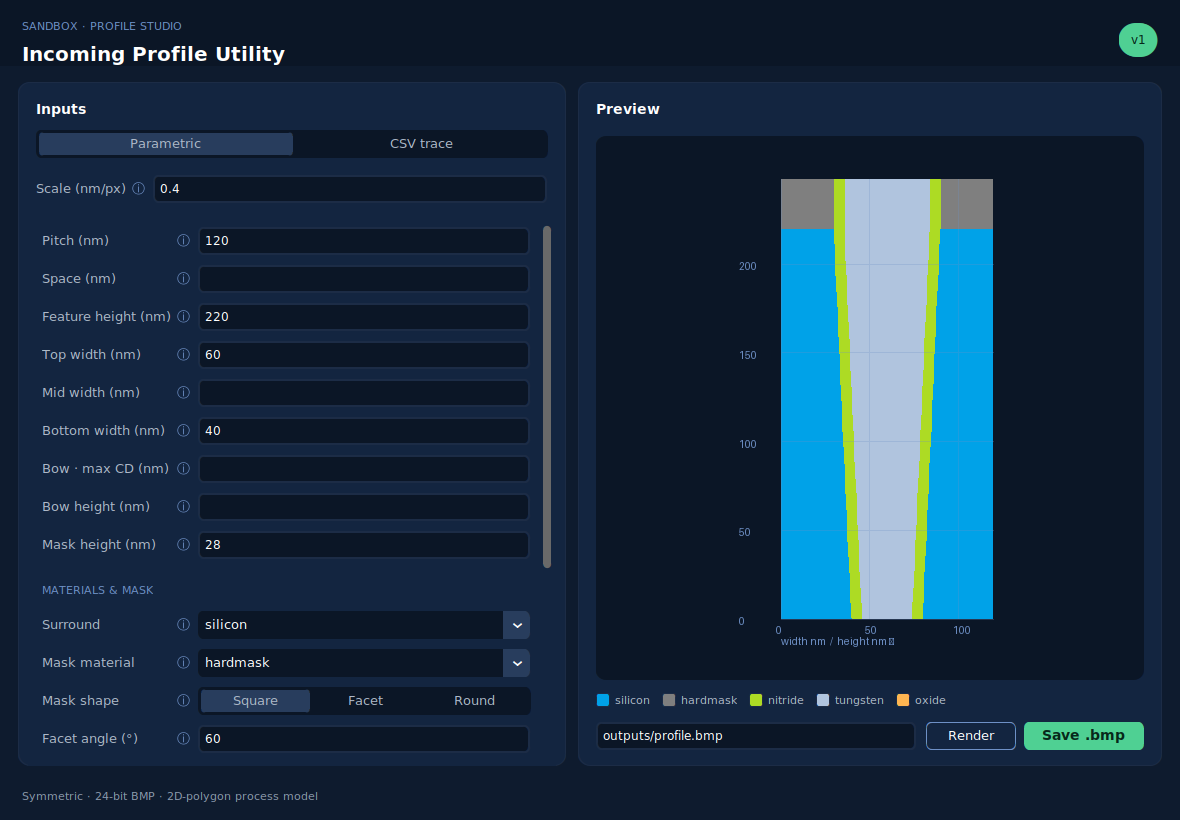
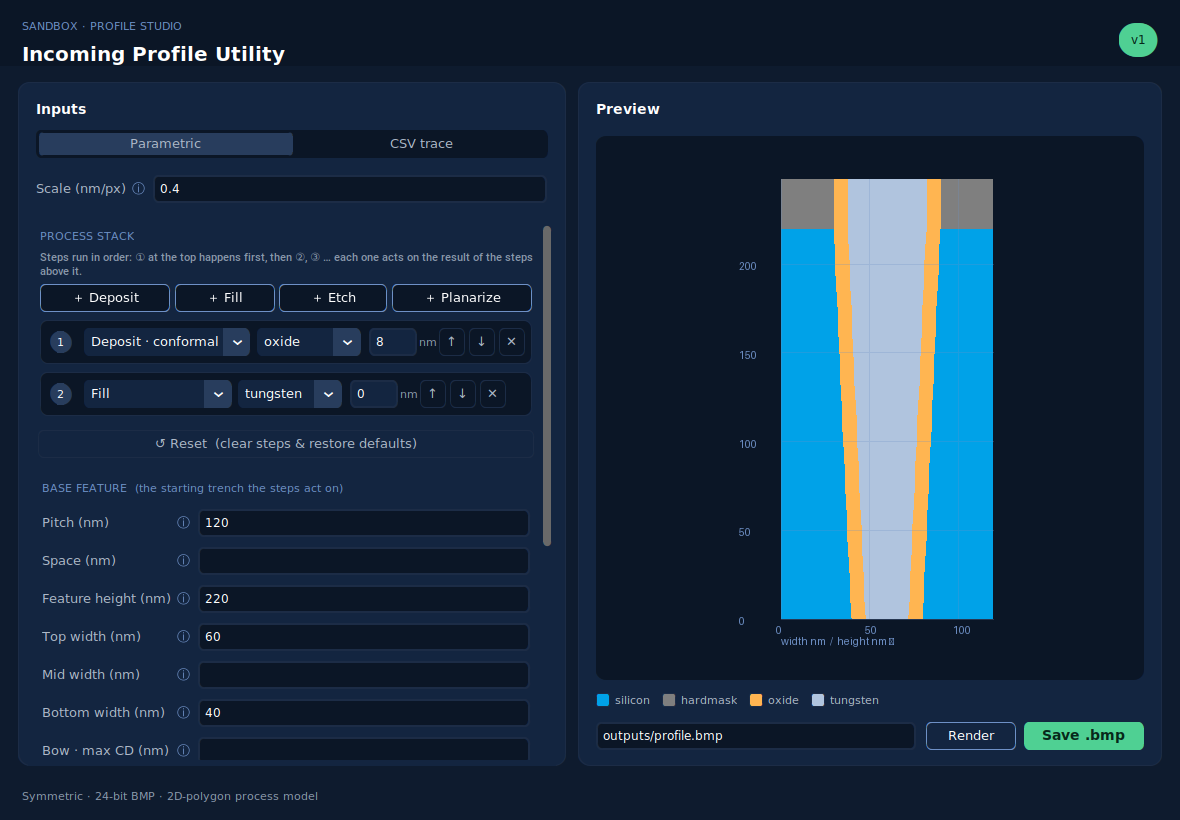
GUI: process stack first, per-type add buttons, reset, clearer ordering
- Reorder parametric inputs: PROCESS STACK on top, then BASE FEATURE, then MATERIALS & MASK.
- Replace single Add button with +Deposit / +Fill / +Etch / +Planarize so all op
  types are visibly available (not hidden in a row dropdown).
- Reword step-order help: numbered steps run top(first) -> bottom(last), each on the
  result above it. Empty-state hint when no steps.
- Add Reset (clear steps + restore default base/mask/scale).
- Etch/Planarize rows disable the material menu (not used by those ops).
- Start with an empty stack so a profile is built from scratch.

diff --git a/src/incoming_profile_utility/gui.py b/src/incoming_profile_utility/gui.py
@@ -73,14 +73,16 @@ class Tooltip:
 
 
 class OpRow:
+    NEEDS_MAT = ("Deposit · conformal", "Deposit · planar", "Fill")
+
     def __init__(self, app, op_label, material, num):
         self.app=app
         self.frame=ctk.CTkFrame(app.op_container, fg_color=NAVY_900, corner_radius=8, border_width=1, border_color=NAVY_700)
         self.badge=ctk.CTkFrame(self.frame, fg_color=BLUE, corner_radius=999, width=22, height=22)
         self.badge.pack(side="left", padx=(10,8), pady=8); self.badge.pack_propagate(False)
         self.badge_lbl=ctk.CTkLabel(self.badge, text="1", font=app.eb, text_color=ON); self.badge_lbl.pack(expand=True)
-        self.optype=ctk.CTkOptionMenu(self.frame, values=OP_LABELS, width=150, font=app.uf, fg_color=NAVY_800,
-                     button_color=BLUE, button_hover_color=BLUE_L, text_color=ON, command=lambda _v: app._schedule_render())
+        self.optype=ctk.CTkOptionMenu(self.frame, values=OP_LABELS, width=148, font=app.uf, fg_color=NAVY_800,
+                     button_color=BLUE, button_hover_color=BLUE_L, text_color=ON, command=self._on_type)
         self.optype.set(op_label); self.optype.pack(side="left", padx=4, pady=8)
         self.mat=ctk.CTkOptionMenu(self.frame, values=app.palette.names(), width=104, font=app.uf, fg_color=NAVY_800,
                      button_color=BLUE, button_hover_color=BLUE_L, text_color=ON, command=lambda _v: app._schedule_render())
@@ -91,6 +93,16 @@ class OpRow:
         for sym,cmd in (("↑",lambda:app._move_op(self,-1)),("↓",lambda:app._move_op(self,1)),("✕",lambda:app._remove_op(self))):
             ctk.CTkButton(self.frame, text=sym, width=26, font=app.uf, fg_color="transparent", border_width=1,
                           border_color=NAVY_700, text_color=SOFT, hover_color=NAVY_700, command=cmd).pack(side="left", padx=2)
+        self._sync()
+
+    def _on_type(self, _v):
+        self._sync(); self.app._schedule_render()
+
+    def _sync(self):
+        if self.optype.get() in self.NEEDS_MAT:
+            self.mat.configure(state="normal")
+        else:
+            self.mat.configure(state="disabled")   # material not used by etch / planarize
 
     def to_op(self):
         lbl=self.optype.get(); mat=self.mat.get()
@@ -118,7 +130,6 @@ class ProfileStudio(ctk.CTk):
         self.grid_columnconfigure(0,weight=1); self.grid_rowconfigure(1,weight=1)
         self._header(); self._body(); self._footer()
         self._set_mode("Parametric")
-        self._add_op("Deposit · conformal","oxide",8); self._add_op("Deposit · conformal","nitride",6)
         self.after(160, self.render_preview)
 
     def _row(self,parent,r,label,info,widget):
@@ -154,33 +165,48 @@ class ProfileStudio(ctk.CTk):
              selected_color=BLUE,selected_hover_color=BLUE_L,unselected_color=NAVY_900,text_color=SOFT)
         seg.set("Parametric"); seg.pack(fill="x",padx=18,pady=(0,10))
 
-        # ---- parametric page ----
-        self.param_page=ctk.CTkScrollableFrame(card,fg_color="transparent",height=520); self.param_page.grid_columnconfigure(2,weight=1)
-        self.entries={}
-        for i,(k,label,default,info) in enumerate(FIELDS):
-            e=ctk.CTkEntry(self.param_page,font=self.mono,fg_color=NAVY_900,border_color=NAVY_700,text_color=ON,width=120)
-            e.insert(0,default); e.bind("<KeyRelease>",self._schedule_render); self._row(self.param_page,i,label,info,e); self.entries[k]=e
-        r=len(FIELDS)
-        ctk.CTkLabel(self.param_page,text="MATERIALS & MASK",font=self.eb,text_color=BLUE_L).grid(row=r,column=0,columnspan=3,sticky="w",padx=8,pady=(12,2))
-        self.opt={}
-        self.opt["surround_material"]=self._mat_menu(self.param_page,"silicon"); self._row(self.param_page,r+1,"Surround","Bulk material the trench is carved into.",self.opt["surround_material"])
-        self.opt["mask_material"]=self._mat_menu(self.param_page,"hardmask"); self._row(self.param_page,r+2,"Mask material","Material of the mask on top.",self.opt["mask_material"])
-        self.mask_shape=ctk.CTkSegmentedButton(self.param_page,values=["Square","Facet","Round"],command=lambda _v:self.render_preview(),font=self.uf,
-                        fg_color=NAVY_900,selected_color=BLUE,selected_hover_color=BLUE_L,unselected_color=NAVY_900,text_color=SOFT)
-        self.mask_shape.set("Square"); self._row(self.param_page,r+3,"Mask shape","Mask corner style (top corners, symmetric).",self.mask_shape)
-        self.entries["mask_facet_angle"]=ctk.CTkEntry(self.param_page,font=self.mono,fg_color=NAVY_900,border_color=NAVY_700,text_color=ON,width=120)
-        self.entries["mask_facet_angle"].insert(0,"60"); self.entries["mask_facet_angle"].bind("<KeyRelease>",self._schedule_render)
-        self._row(self.param_page,r+4,"Facet angle (°)","Facet sidewall angle from horizontal; 90 = square.",self.entries["mask_facet_angle"])
-        self.entries["mask_radius"]=ctk.CTkEntry(self.param_page,font=self.mono,fg_color=NAVY_900,border_color=NAVY_700,text_color=ON,width=120)
-        self.entries["mask_radius"].insert(0,"12"); self.entries["mask_radius"].bind("<KeyRelease>",self._schedule_render)
-        self._row(self.param_page,r+5,"Round radius (nm)","Corner radius when Mask shape = Round.",self.entries["mask_radius"])
+        # ---- parametric page (sections packed in order; process stack FIRST) ----
+        self.param_page=ctk.CTkScrollableFrame(card,fg_color="transparent",height=520)
+        self.entries={}; self.opt={}
 
-        ctk.CTkLabel(self.param_page,text="PROCESS STACK   (top → bottom = first → last)",font=self.eb,text_color=BLUE_L).grid(row=r+6,column=0,columnspan=3,sticky="w",padx=8,pady=(12,2))
-        self.op_container=ctk.CTkFrame(self.param_page,fg_color="transparent"); self.op_container.grid(row=r+7,column=0,columnspan=3,sticky="ew",padx=2)
-        ctk.CTkButton(self.param_page,text="＋ Add operation",command=lambda:self._add_op(),font=self.uf,fg_color="transparent",border_width=1,
-                      border_color=BLUE_L,text_color=ON,hover_color=NAVY_700).grid(row=r+8,column=0,columnspan=3,sticky="ew",padx=8,pady=(6,4))
-        ctk.CTkButton(self.param_page,text="＋ Add material",command=self._add_material,font=self.uf,fg_color="transparent",border_width=1,
-                      border_color=BLUE_L,text_color=ON,hover_color=NAVY_700).grid(row=r+9,column=0,columnspan=3,sticky="ew",padx=8,pady=(0,4))
+        # 1) PROCESS STACK
+        ps=ctk.CTkFrame(self.param_page,fg_color="transparent"); ps.pack(fill="x",pady=(0,8))
+        ctk.CTkLabel(ps,text="PROCESS STACK",font=self.eb,text_color=BLUE_L).pack(anchor="w",padx=6)
+        ctk.CTkLabel(ps,text="Steps run in order: ① at the top happens first, then ②, ③ … each one acts on the result of the steps above it.",
+                     font=ctk.CTkFont(size=11),text_color=MUT,wraplength=500,justify="left").pack(anchor="w",padx=6,pady=(0,6))
+        addbar=ctk.CTkFrame(ps,fg_color="transparent"); addbar.pack(fill="x",padx=4)
+        for text,kind in [("＋ Deposit","deposit"),("＋ Fill","fill"),("＋ Etch","etch"),("＋ Planarize","planarize")]:
+            ctk.CTkButton(addbar,text=text,command=lambda k=kind:self._add_op(k),font=self.uf,fg_color=NAVY_900,
+                          border_width=1,border_color=BLUE_L,text_color=ON,hover_color=NAVY_700,width=10).pack(side="left",expand=True,fill="x",padx=2)
+        self.op_container=ctk.CTkFrame(ps,fg_color="transparent"); self.op_container.pack(fill="x",pady=4)
+        self.empty_hint=ctk.CTkLabel(ps,text="No steps yet — add one above to start building.",font=ctk.CTkFont(size=11),text_color=MUT)
+        self.empty_hint.pack(anchor="w",padx=6)
+        ctk.CTkButton(ps,text="↺ Reset  (clear steps & restore defaults)",command=self._reset,font=self.uf,fg_color="transparent",
+                      border_width=1,border_color=NAVY_700,text_color=SOFT,hover_color=NAVY_700).pack(fill="x",padx=4,pady=(6,0))
+
+        # 2) BASE FEATURE
+        bs=ctk.CTkFrame(self.param_page,fg_color="transparent"); bs.pack(fill="x",pady=(4,4)); bs.grid_columnconfigure(2,weight=1)
+        ctk.CTkLabel(bs,text="BASE FEATURE  (the starting trench the steps act on)",font=self.eb,text_color=BLUE_L).grid(row=0,column=0,columnspan=3,sticky="w",padx=8,pady=(4,2))
+        for i,(k,label,default,info) in enumerate(FIELDS,1):
+            e=ctk.CTkEntry(bs,font=self.mono,fg_color=NAVY_900,border_color=NAVY_700,text_color=ON,width=120)
+            e.insert(0,default); e.bind("<KeyRelease>",self._schedule_render); self._row(bs,i,label,info,e); self.entries[k]=e
+
+        # 3) MATERIALS & MASK
+        ms=ctk.CTkFrame(self.param_page,fg_color="transparent"); ms.pack(fill="x",pady=(4,4)); ms.grid_columnconfigure(2,weight=1)
+        ctk.CTkLabel(ms,text="MATERIALS & MASK",font=self.eb,text_color=BLUE_L).grid(row=0,column=0,columnspan=3,sticky="w",padx=8,pady=(4,2))
+        self.opt["surround_material"]=self._mat_menu(ms,"silicon"); self._row(ms,1,"Surround","Bulk material the trench is carved into.",self.opt["surround_material"])
+        self.opt["mask_material"]=self._mat_menu(ms,"hardmask"); self._row(ms,2,"Mask material","Material of the mask on top.",self.opt["mask_material"])
+        self.mask_shape=ctk.CTkSegmentedButton(ms,values=["Square","Facet","Round"],command=lambda _v:self.render_preview(),font=self.uf,
+                        fg_color=NAVY_900,selected_color=BLUE,selected_hover_color=BLUE_L,unselected_color=NAVY_900,text_color=SOFT)
+        self.mask_shape.set("Square"); self._row(ms,3,"Mask shape","Mask corner style (top corners, symmetric).",self.mask_shape)
+        self.entries["mask_facet_angle"]=ctk.CTkEntry(ms,font=self.mono,fg_color=NAVY_900,border_color=NAVY_700,text_color=ON,width=120)
+        self.entries["mask_facet_angle"].insert(0,"60"); self.entries["mask_facet_angle"].bind("<KeyRelease>",self._schedule_render)
+        self._row(ms,4,"Facet angle (°)","Facet sidewall angle from horizontal; 90 = square.",self.entries["mask_facet_angle"])
+        self.entries["mask_radius"]=ctk.CTkEntry(ms,font=self.mono,fg_color=NAVY_900,border_color=NAVY_700,text_color=ON,width=120)
+        self.entries["mask_radius"].insert(0,"12"); self.entries["mask_radius"].bind("<KeyRelease>",self._schedule_render)
+        self._row(ms,5,"Round radius (nm)","Corner radius when Mask shape = Round.",self.entries["mask_radius"])
+        ctk.CTkButton(ms,text="＋ Add material",command=self._add_material,font=self.uf,fg_color="transparent",border_width=1,
+                      border_color=BLUE_L,text_color=ON,hover_color=NAVY_700).grid(row=6,column=0,columnspan=3,sticky="ew",padx=8,pady=(8,4))
 
         # ---- csv page ----
         self.csv_page=ctk.CTkScrollableFrame(card,fg_color="transparent",height=520); self.csv_page.grid_columnconfigure(2,weight=1)
@@ -209,8 +235,16 @@ class ProfileStudio(ctk.CTk):
         ctk.CTkLabel(self,text="Symmetric · 24-bit BMP · 2D-polygon process model",font=self.eb,text_color=MUT).grid(row=2,column=0,sticky="w",padx=22,pady=(0,10))
 
     # ---- ops management ----
-    def _add_op(self, op_label="Deposit · conformal", material="oxide", num=6):
-        row=OpRow(self, op_label, material, num); self.op_rows.append(row); self._relayout_ops(); self.render_preview()
+    OP_PRESETS = {
+        "deposit":   ("Deposit · conformal", "oxide", 8),
+        "fill":      ("Fill", "tungsten", 0),
+        "etch":      ("Etch · isotropic", "oxide", 5),
+        "planarize": ("Planarize", "oxide", 240),
+    }
+
+    def _add_op(self, kind="deposit"):
+        label, material, num = self.OP_PRESETS.get(kind, self.OP_PRESETS["deposit"])
+        row=OpRow(self, label, material, num); self.op_rows.append(row); self._relayout_ops(); self.render_preview()
     def _remove_op(self,row):
         row.frame.destroy(); self.op_rows.remove(row); self._relayout_ops(); self.render_preview()
     def _move_op(self,row,delta):
@@ -220,6 +254,20 @@ class ProfileStudio(ctk.CTk):
     def _relayout_ops(self):
         for n,row in enumerate(self.op_rows,1):
             row.frame.pack_forget(); row.frame.pack(fill="x",padx=6,pady=4); row.badge_lbl.configure(text=str(n))
+        self.empty_hint.pack_forget()
+        if not self.op_rows:
+            self.empty_hint.pack(anchor="w",padx=6)
+
+    def _reset(self):
+        for row in list(self.op_rows): row.frame.destroy()
+        self.op_rows=[]
+        for k,label,default,info in FIELDS:
+            self.entries[k].delete(0,"end"); self.entries[k].insert(0,default)
+        self.entries["mask_facet_angle"].delete(0,"end"); self.entries["mask_facet_angle"].insert(0,"60")
+        self.entries["mask_radius"].delete(0,"end"); self.entries["mask_radius"].insert(0,"12")
+        self.opt["surround_material"].set("silicon"); self.opt["mask_material"].set("hardmask")
+        self.mask_shape.set("Square"); self.scale_entry.delete(0,"end"); self.scale_entry.insert(0,"0.4")
+        self._relayout_ops(); self.render_preview()
 
     def _set_mode(self,value):
         self.mode=value; self.param_page.pack_forget(); self.csv_page.pack_forget()
